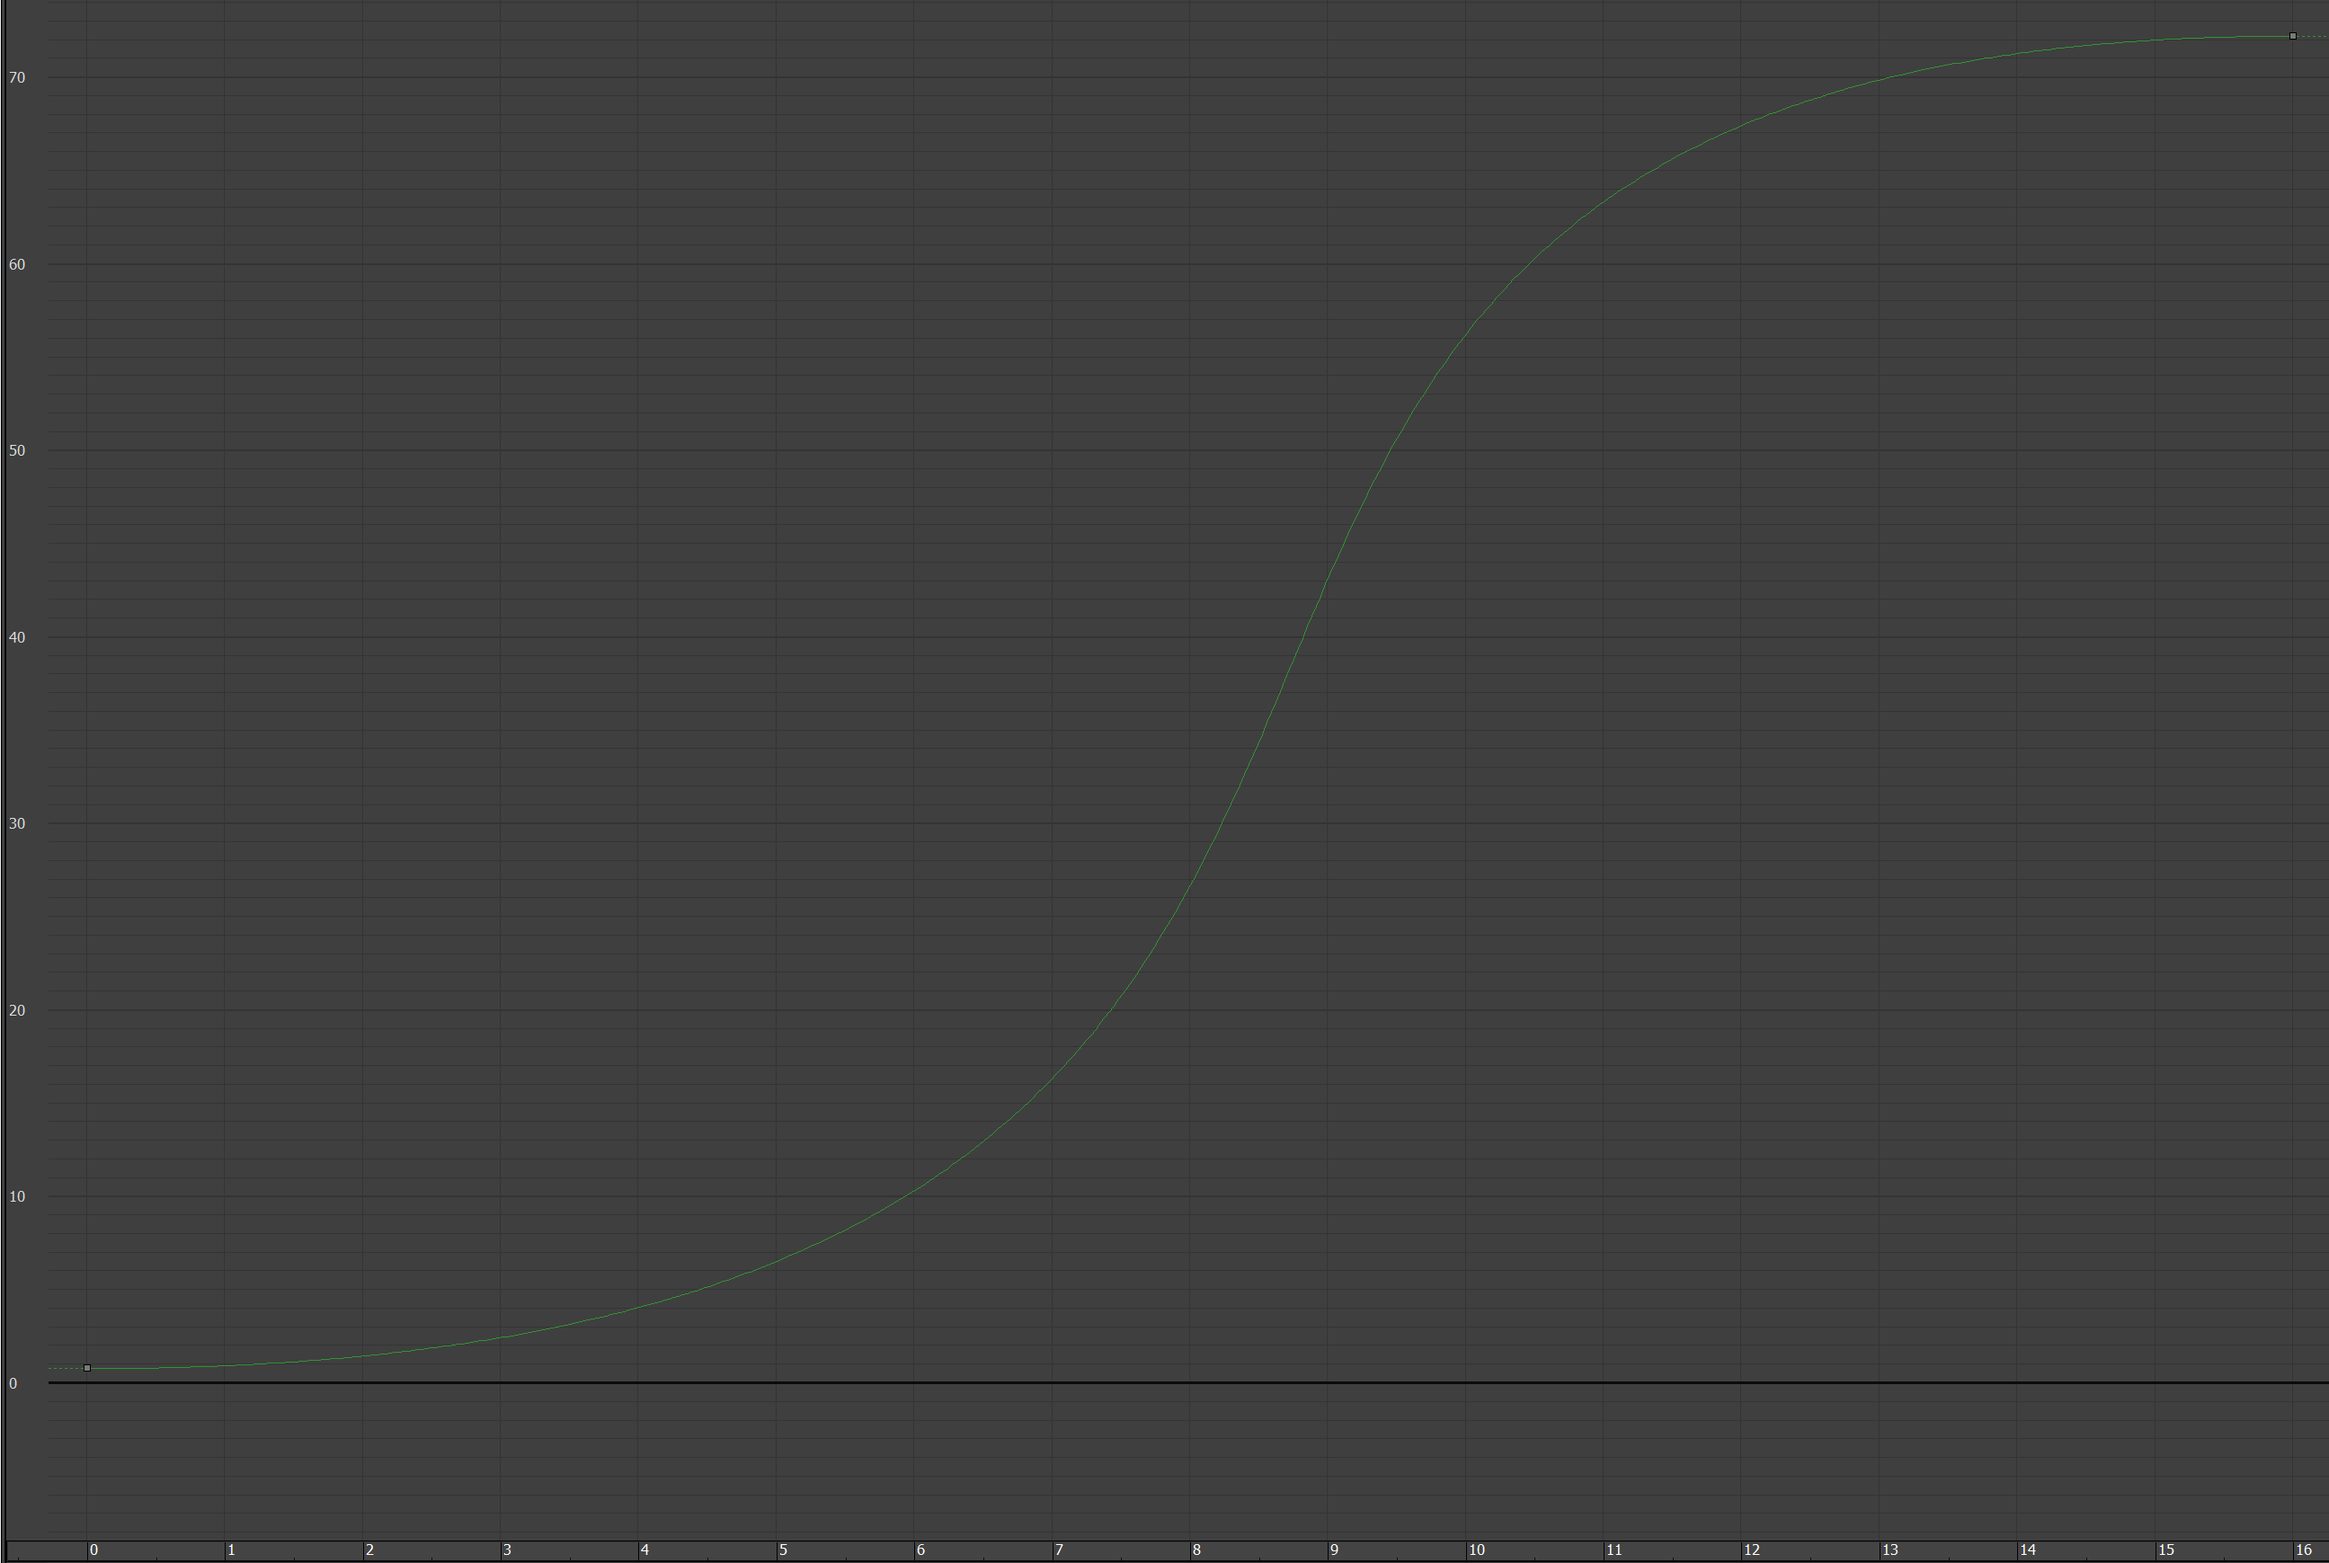
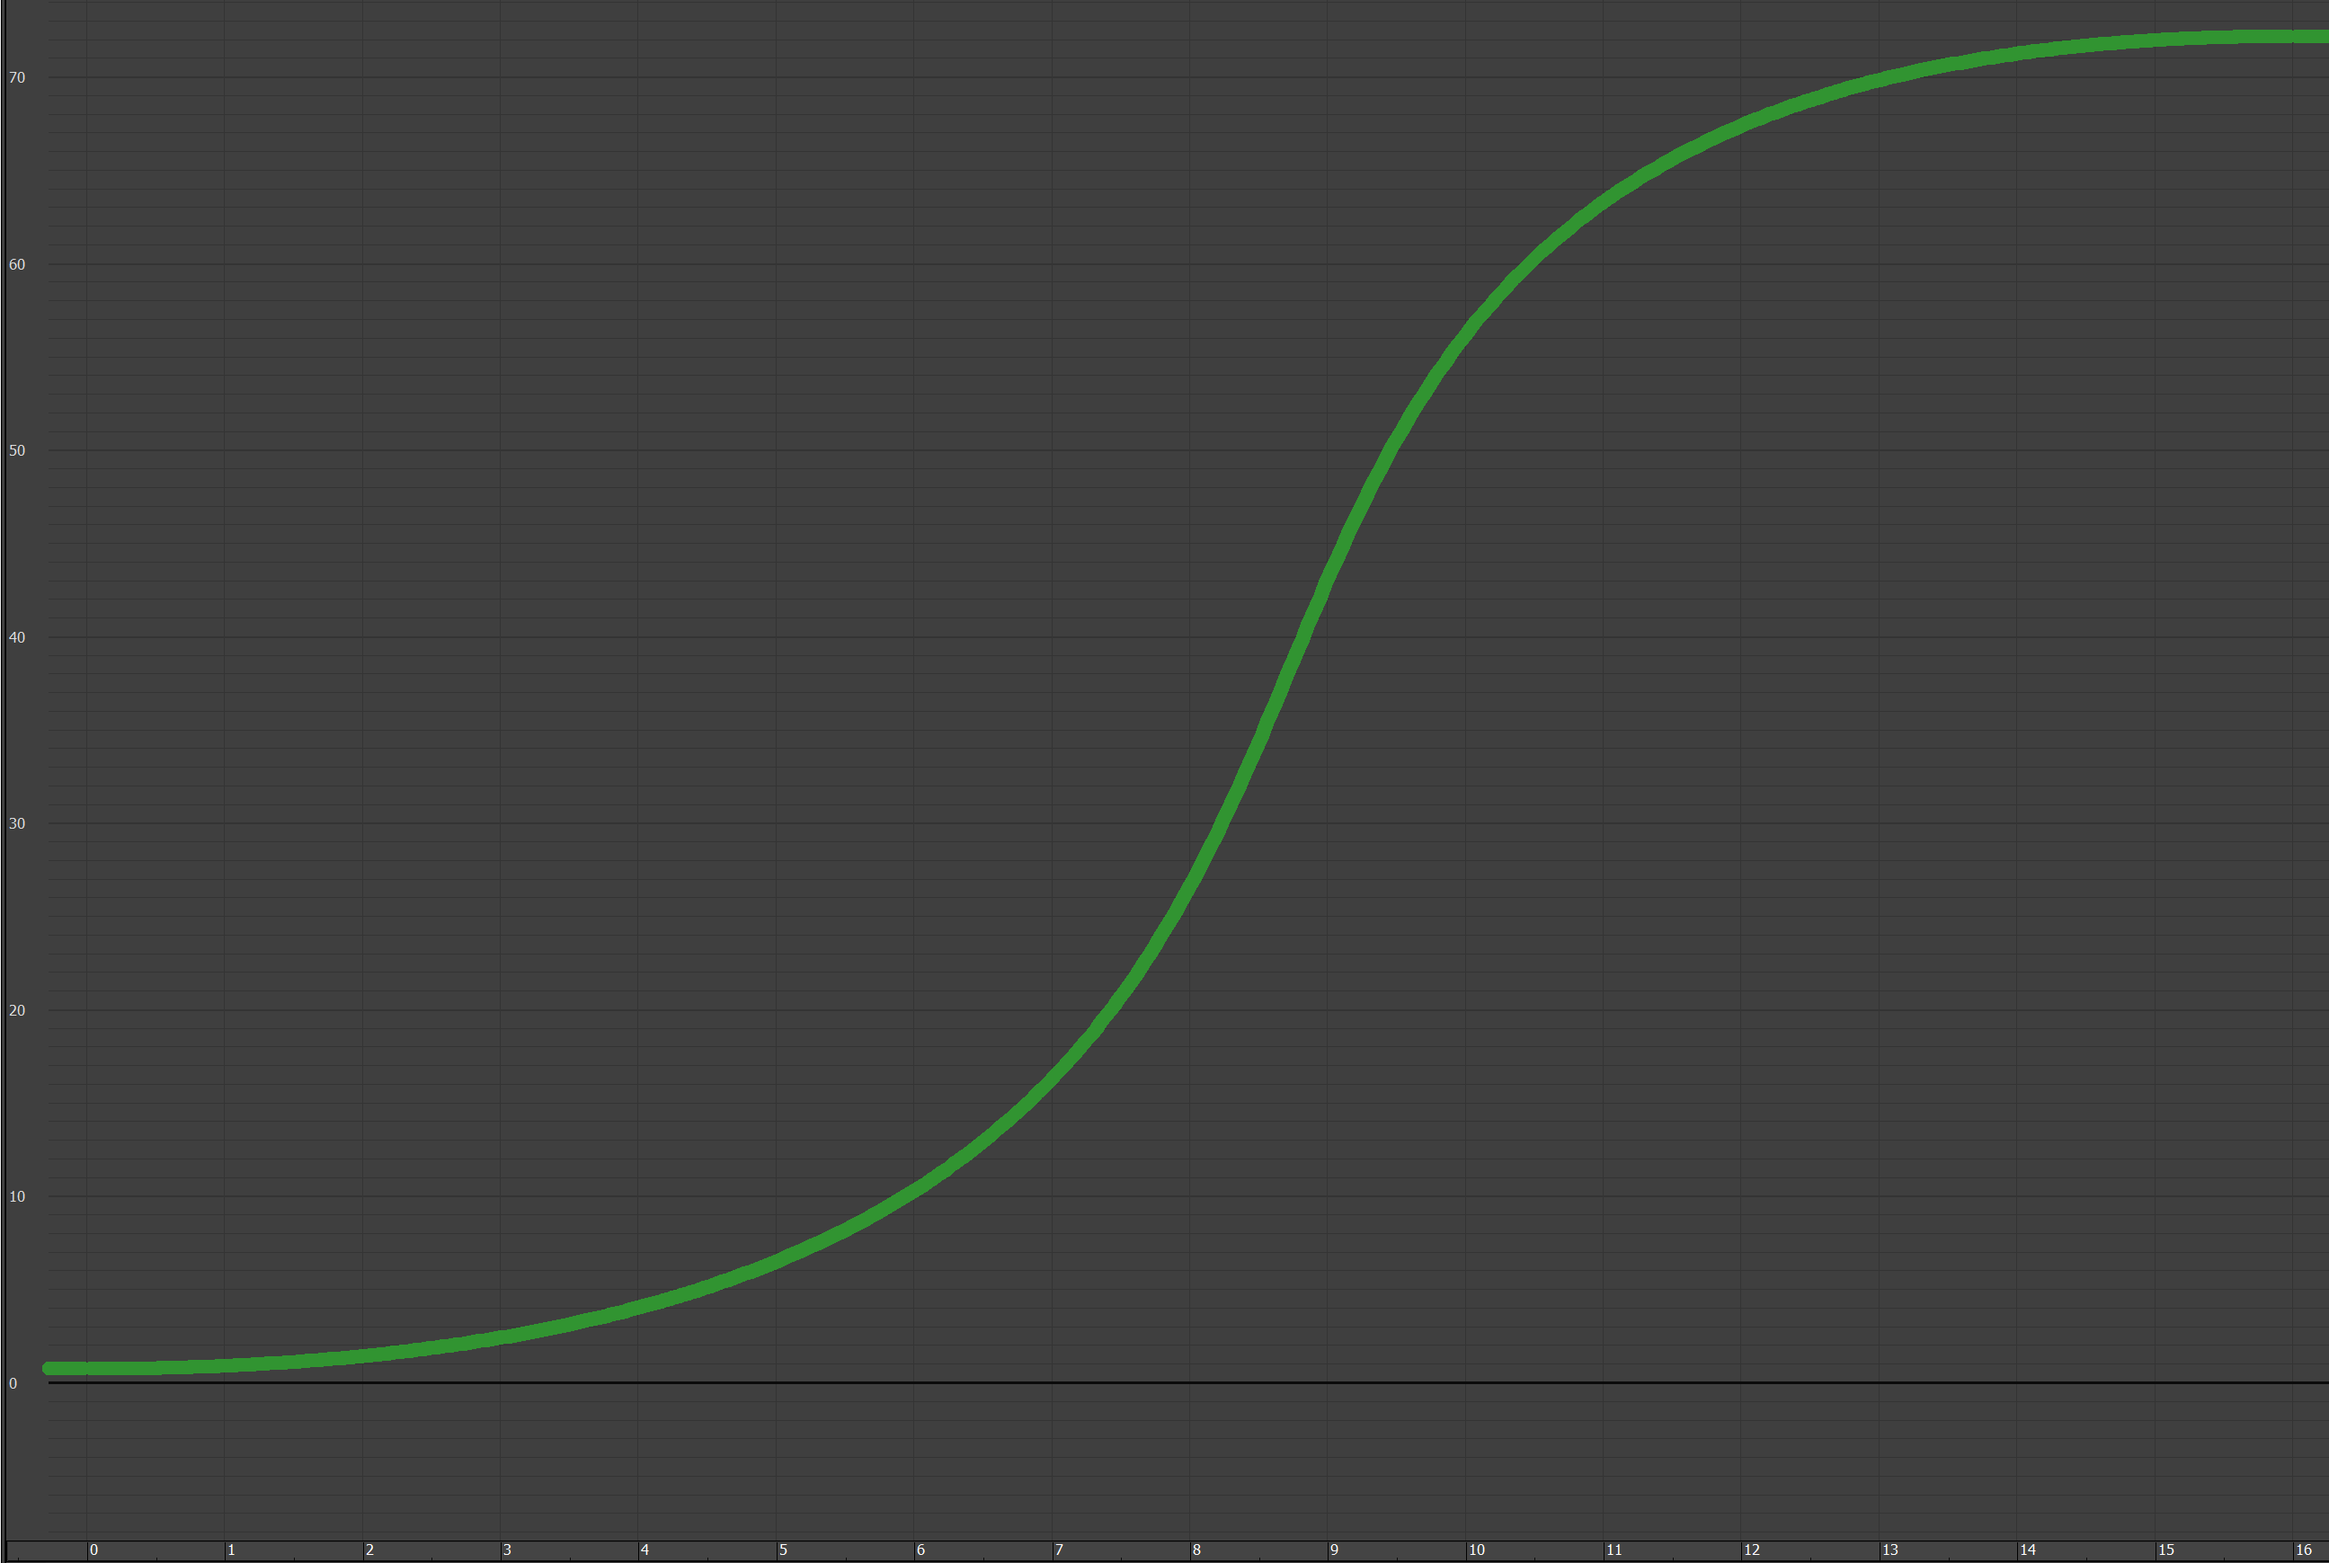
Arreglado el documento T2

diff --git a/Teoria/Cuestiones Tema 2/MerloTrujilloAndres_AO_T2.tex b/Teoria/Cuestiones Tema 2/MerloTrujilloAndres_AO_T2.tex
@@ -184,7 +184,7 @@ Otro ejemplo puede ser el de un espectador en una pista de carreras observando l
 
 \begin{figure}[H]
     \centering
-    \includegraphics[width=0.7\textwidth]{imagenes/image-9_timing.jpg}
+    \includegraphics[width=0.6\textwidth]{imagenes/image-9_timing.jpg}
     \caption{Ejemplo de \textit{timing}.}
     \vspace{10pt}
     \footnotesize{Fuente: \url{https://www.360south.com.au/blog/article/27/the-12-principles-of-animation-part-three.html}}
@@ -262,7 +262,7 @@ La curva resultante de la animación es la siguiente:
 \begin{figure}[H]
     \centering
     \includegraphics[width=0.8\textwidth]{imagenes/curva.png}
-    \caption{Curva de animación para la esfera.}
+    \caption{Curva de animación para la esfera. La línea ha sido engrosada después de realizar la captura para mejorar su visualización.}
 \end{figure}
 
 El eje X de la gráfica representa el tiempo transcurrido, mientras que el eje Y representa la posición/rotación/escalado del objeto (en este caso traslación en el eje Y).
